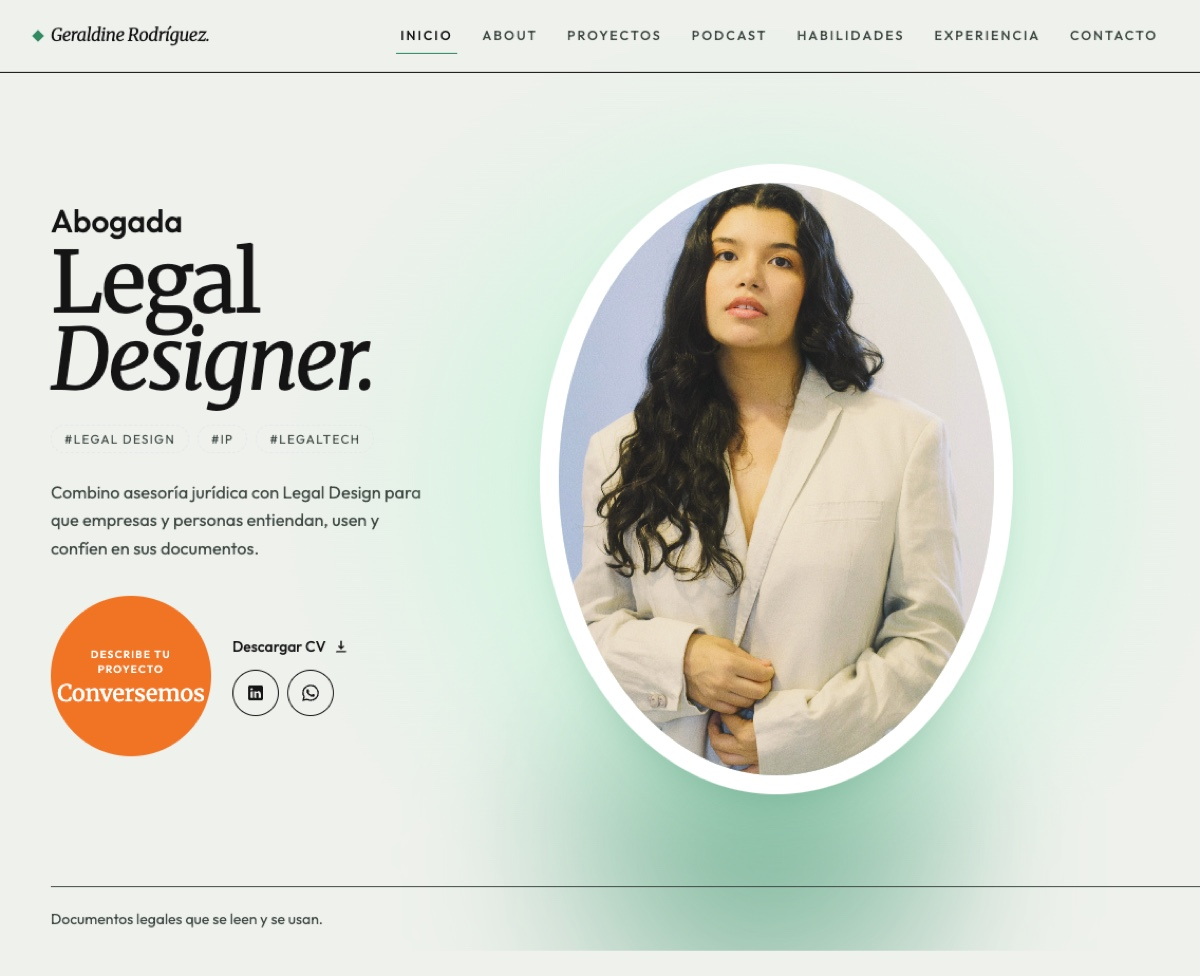
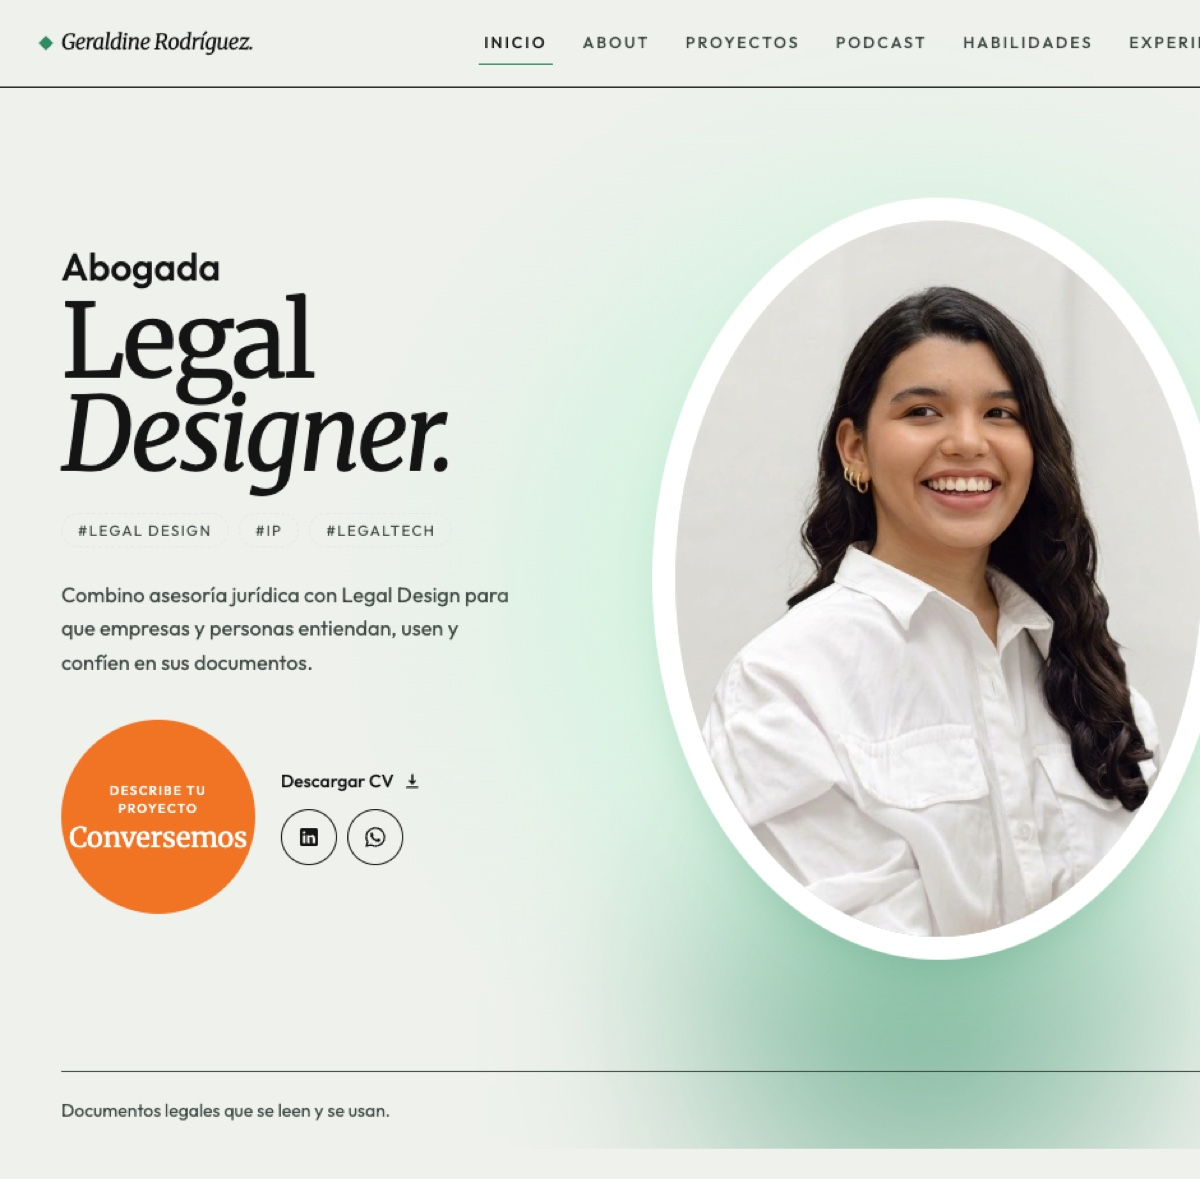
fix: update image dimensions and profile picture in layout and intro components
- Adjusted height of Open Graph image in layout.tsx for better display.
- Changed profile image import in intro.tsx to a new file format for consistency.
- Updated object positioning for profile image in intro.tsx to enhance visual alignment.

diff --git a/components/intro.tsx b/components/intro.tsx
@@ -10,7 +10,7 @@ import { FaWhatsapp } from 'react-icons/fa';
 
 import { useSectionInView } from '@/lib/hooks';
 import { useActiveSectionContext } from '@/context/active-section-context';
-import imagenProfile from '@/public/gera-podcast.jpg';
+import imagenProfile from '@/public/profile-pic.JPG';
 
 const tags = ['#Legal Design', '#IP', '#Legaltech'];
 const ease = [0.22, 1, 0.36, 1] as const;
@@ -137,7 +137,7 @@ export default function Intro() {
                 height={1200}
                 quality={95}
                 priority
-                className="h-full w-full object-cover object-[center_10%]"
+                className="h-full w-full object-cover object-[center_18%]"
               />
             </div>
           </motion.div>

diff --git a/app/layout.tsx b/app/layout.tsx
@@ -38,7 +38,7 @@ export const metadata = {
       {
         url: '/og.jpg',
         width: 1200,
-        height: 976,
+        height: 1179,
         type: 'image/jpeg',
         alt: 'Pantalla de inicio de Geraldine Rodríguez, abogada y Legal Designer',
       },
